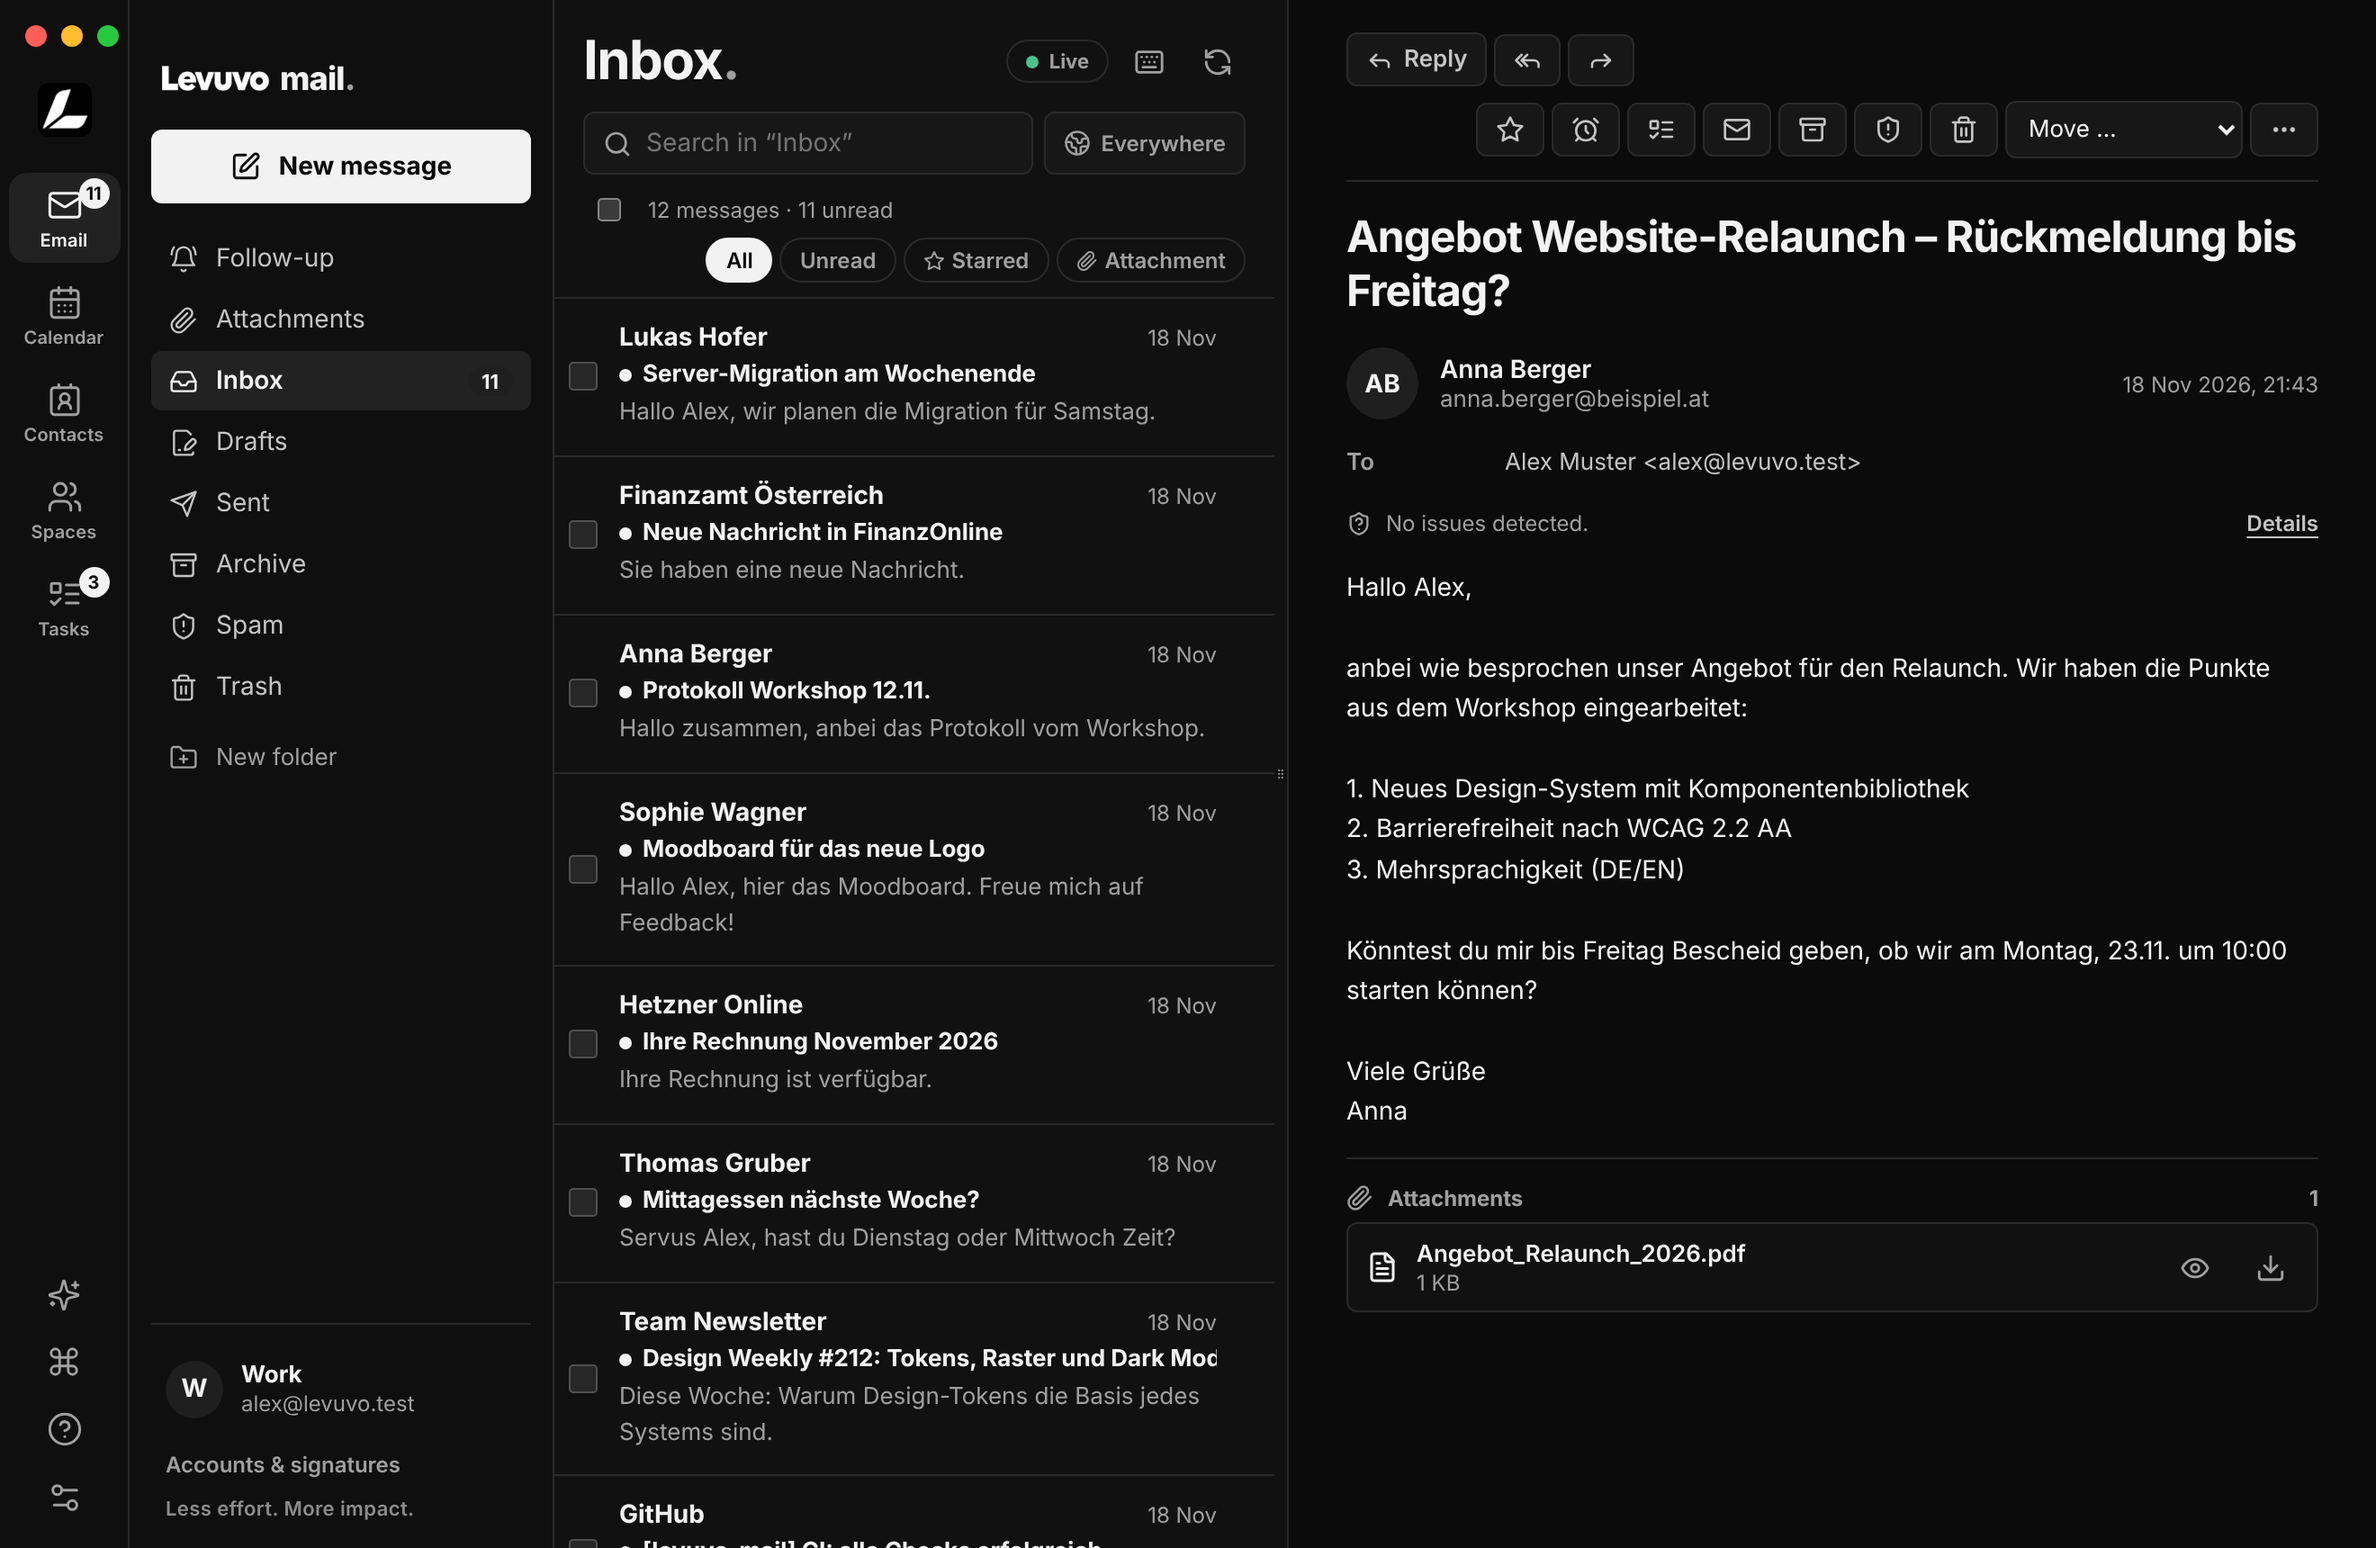
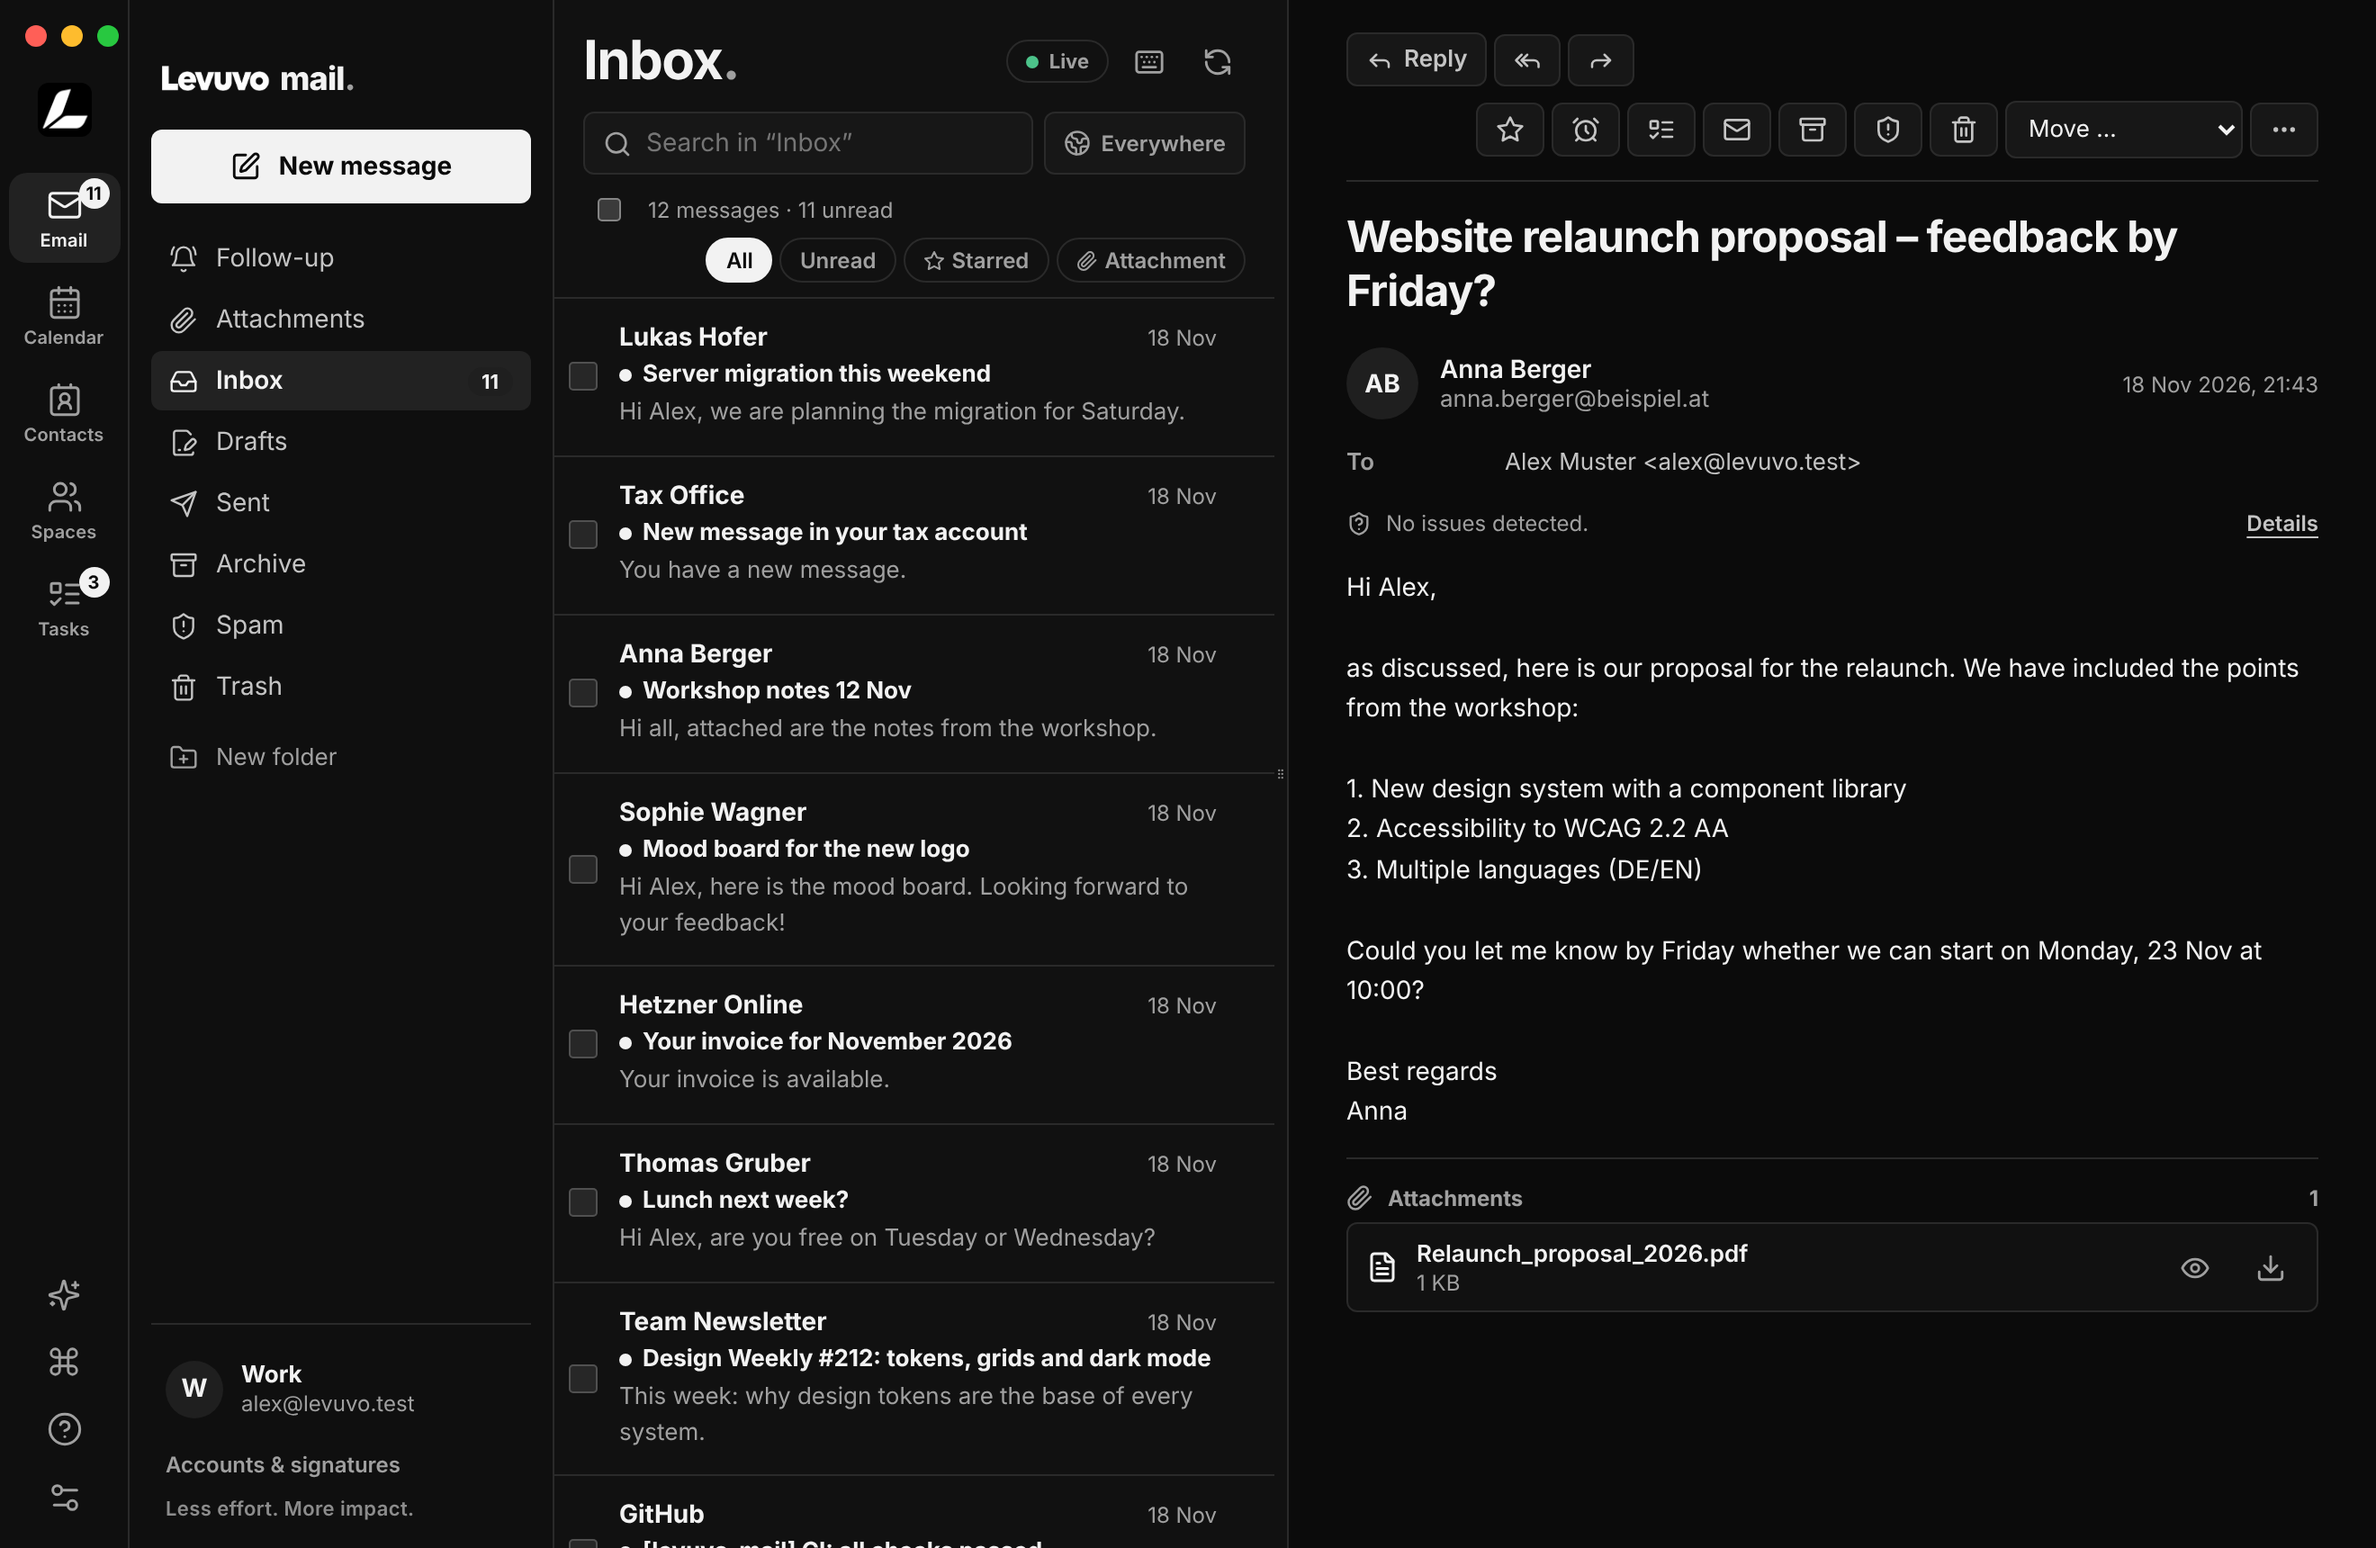
feat(manual): English demo mailbox for the English edition
The English screenshots and cover showed the German demo mails. Capture now localizes the demo
data per edition (subjects, bodies, contacts, spaces). The spaces activity quotes labels with
the quote marks of the UI language.

Claude-Session: https://claude.ai/code/session_011tY7TBijNaUSL9iPCdm2PK

diff --git a/apps/web/src/i18n-en.ts b/apps/web/src/i18n-en.ts
@@ -777,6 +777,7 @@ export const EN: Record<string, string> = {
   'Schritt für Schritt erklärt: Einrichtung, E-Mail, Kalender, Kontakte, Aufgaben, Räume, Assistent und Einstellungen. Fragen dazu beantwortet auch der Assistent.':
     'Explained step by step: setup, email, calendar, contacts, tasks, spaces, assistant and settings. The assistant also answers questions about it.',
   'Bild nicht gefunden.': 'Image not found.',
+  '„{label}“': '“{label}”',
   'Tastenkürzel anzeigen': 'Show keyboard shortcuts',
   'Desktop-App': 'Desktop app',
   'Browser (Entwicklung)': 'Browser (development)',

diff --git a/apps/web/src/Spaces.tsx b/apps/web/src/Spaces.tsx
@@ -588,7 +588,7 @@ function Overview({
           <li key={a.op}>
             <span className="muted">{dateLabel(a.at)}</span> <strong>{names[a.by] || t('Unbekannt')}</strong> {text(a)}
             {a.label && a.type !== 'member.add' && a.type !== 'member.remove' && a.type !== 'member.role' && (
-              <em> „{a.label}“</em>
+              <em> {t('„{label}“', { label: a.label })}</em>
             )}
           </li>
         ))}
